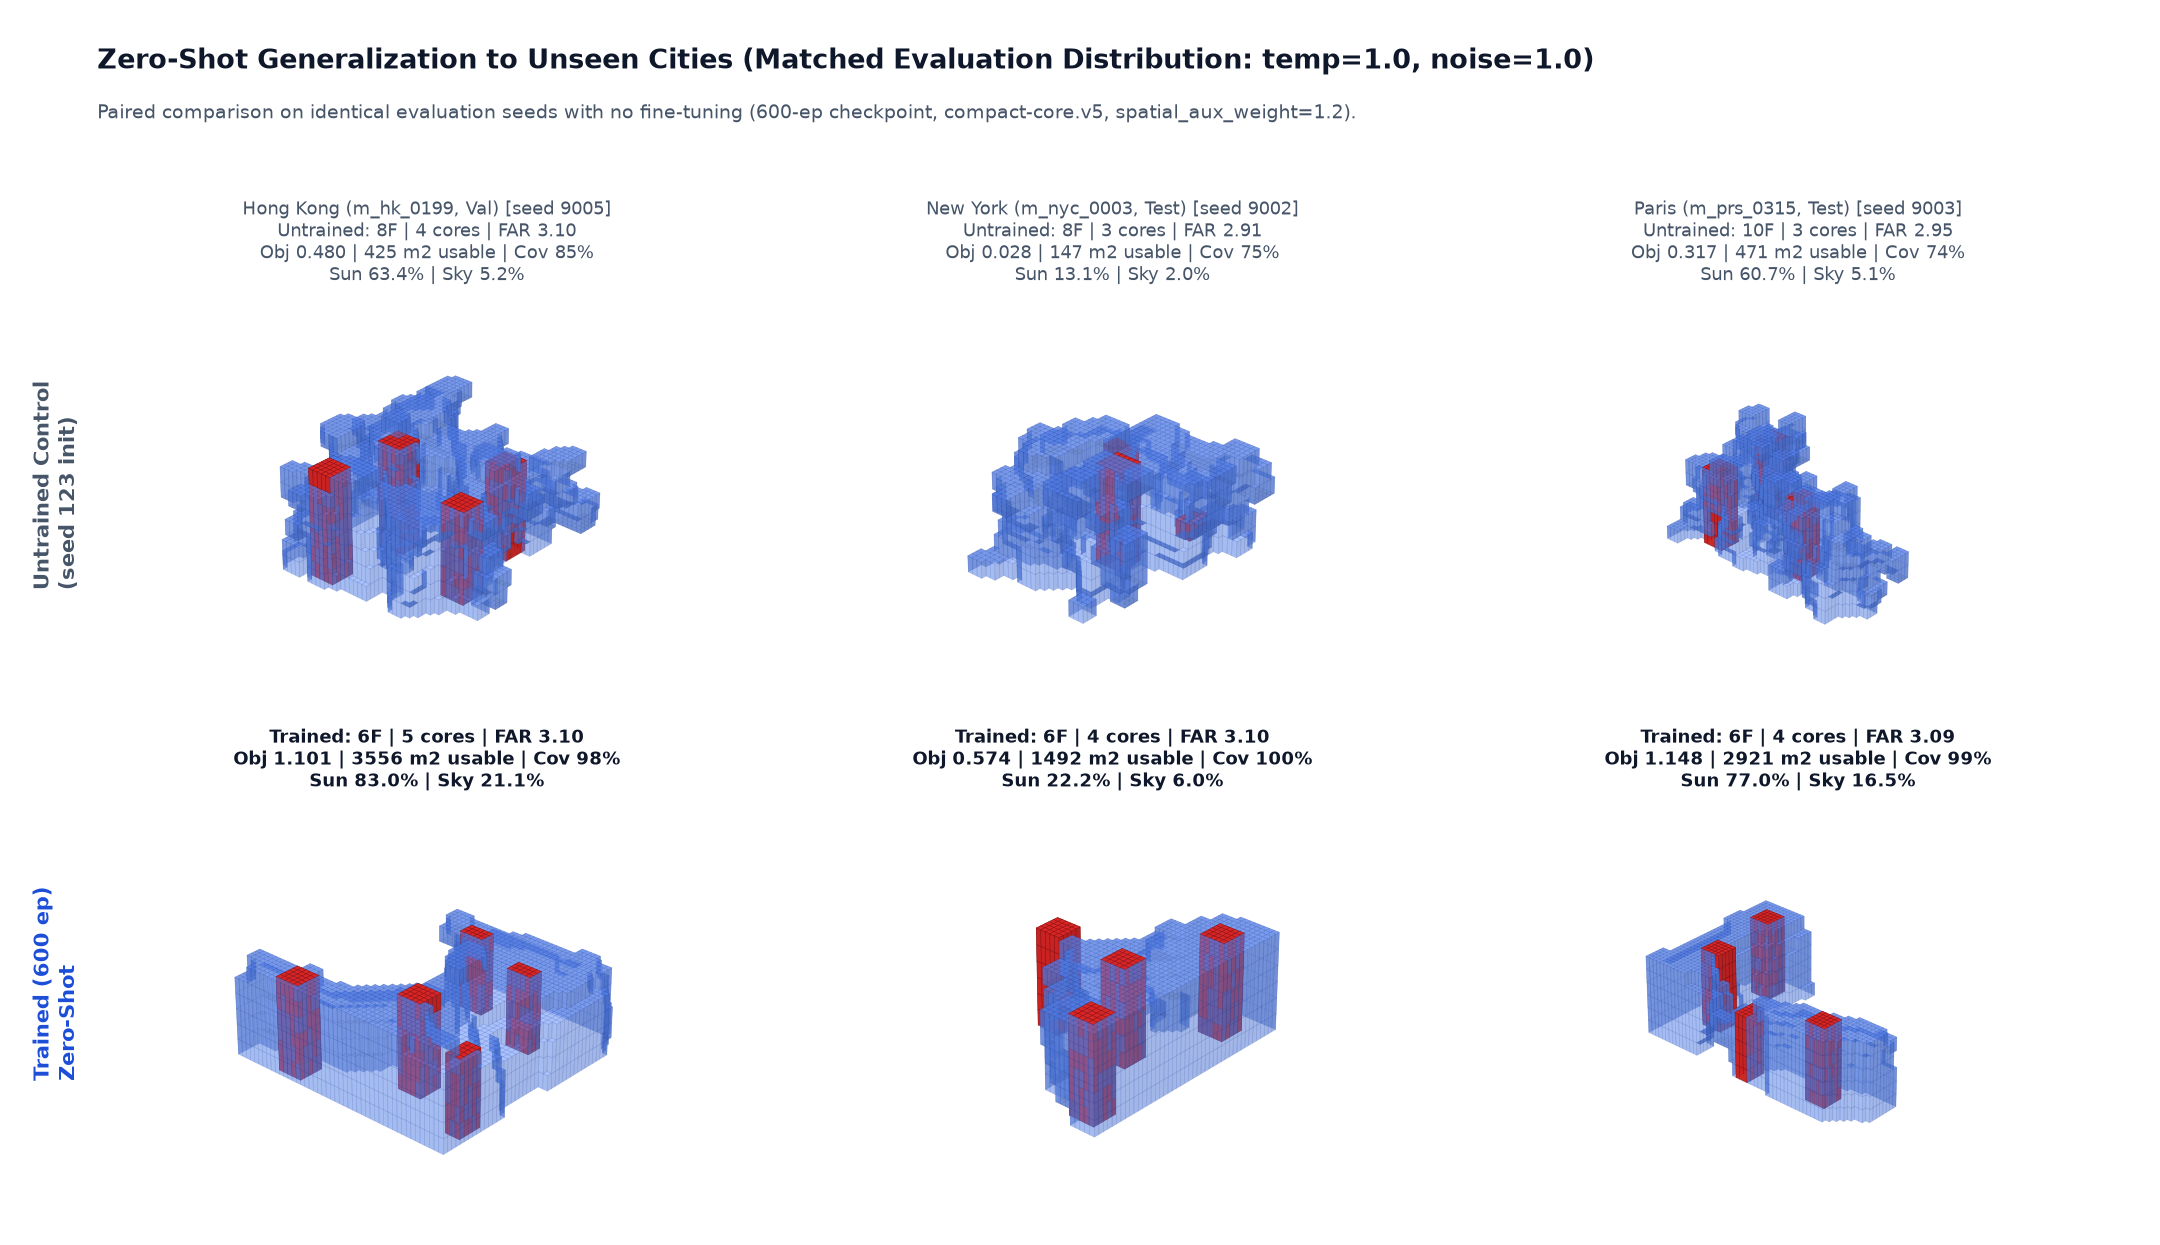
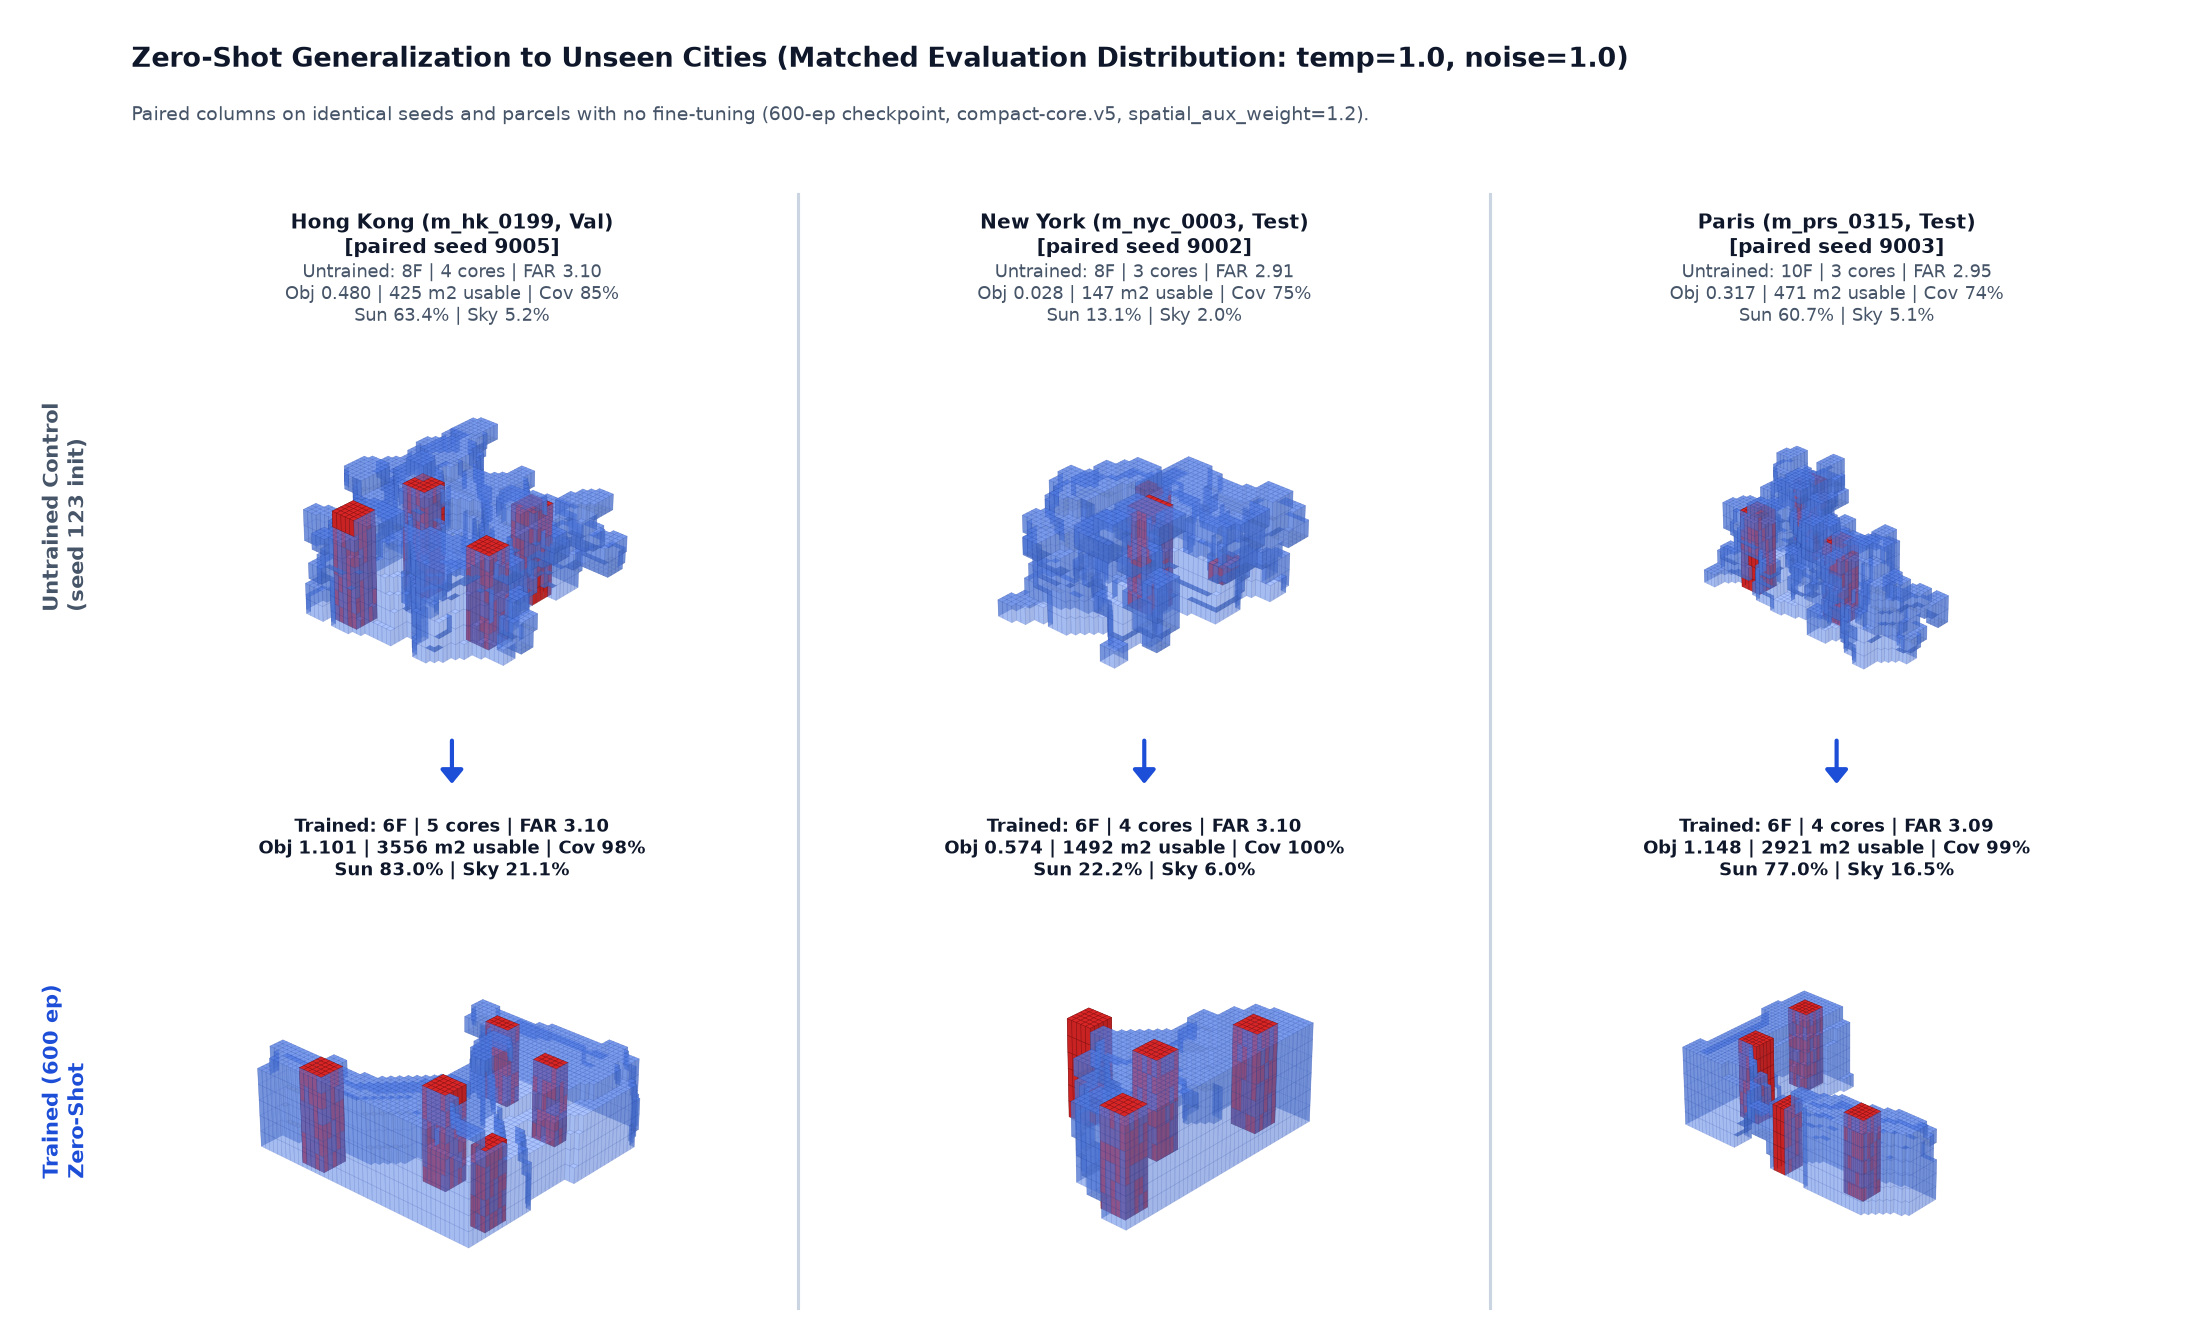
Select XS-3/M-3 showcase designs and refine held-out column dividers

diff --git a/tools/generate_readme_media.py b/tools/generate_readme_media.py
@@ -657,25 +657,21 @@ def generate_trained_rollout_assets(cfg: ExperimentConfig, dev: str, trained, to
 
 
 def generate_trained_multitier_showcase(cfg: ExperimentConfig, dev: str, trained, total_eps: int):
-    """Render best trained FAR-satisfied layouts across XS, S, M, L, XL training tiers."""
+    """Render curated trained FAR-satisfied layouts across XS, S, M, L, XL training tiers."""
     tiers = [
-        ('xs_sgp_0346', 'XS'),
-        ('s_sgp_0345', 'S'),
-        ('m_bcn_0093', 'M'),
-        ('l_bcn_0074', 'L'),
-        ('xl_tokyo_0185', 'XL'),
+        ('xs_tokyo_0133', 'XS', 9022),
+        ('s_sgp_0345', 'S', 9002),
+        ('m_tokyo_0135', 'M', 9007),
+        ('l_bcn_0074', 'L', 9008),
+        ('xl_tokyo_0185', 'XL', 9009),
     ]
     fig = plt.figure(figsize=(16.5, 5.1), dpi=150)
     fig.patch.set_facecolor('#ffffff')
     gs = gridspec.GridSpec(1, 5, figure=fig, left=0.015, right=0.985, top=0.71, bottom=0.04, wspace=0.03)
 
-    for idx, (site_id, tier) in enumerate(tiers):
+    for idx, (site_id, tier, eval_seed) in enumerate(tiers):
         env = _load_env(site_id, cfg, dev)
-        best = None
-        for s in range(9001, 9011):
-            res, _ = _run_eval_episode(trained, env, cfg, s, temp=1.0, noise=1.0, record_trace=False)
-            if best is None or (res['far_satisfied'], res['obj']) > (best['far_satisfied'], best['obj']):
-                best = res
+        best, _ = _run_eval_episode(trained, env, cfg, eval_seed, temp=1.0, noise=1.0, record_trace=False)
         occ = best['occ']
         cmask = best['core_mask']
         ax = fig.add_subplot(gs[0, idx], projection='3d')
@@ -691,7 +687,7 @@ def generate_trained_multitier_showcase(cfg: ExperimentConfig, dev: str, trained
             f'Sun {best["sun"]*100:.1f}% | Sky {best["diff"]*100:.1f}% | Cov {best["core_cov"]*100:.0f}%',
             fontsize=8.3, fontweight='bold', color='#0f172a', pad=3,
         )
-        print(f'  Tier {tier:2s} ({site_id}, {sched_lbl}): obj={best["obj"]:.3f} far={best["far"]:.2f} cov={best["core_cov"]*100:.1f}% seed={best["seed"]}')
+        print(f'  Tier {tier:2s} ({site_id}, {sched_lbl}): obj={best["obj"]:.3f} far={best["far"]:.2f} usable={best["usable_area"]:.0f} cov={best["core_cov"]*100:.1f}% seed={best["seed"]}')
 
     mode_tag = 'Tier-Adaptive Multi-Scale' if cfg.multiscale_schedule == 'tier_adaptive' else 'Flat 1x1x1'
     fig.text(
@@ -701,7 +697,7 @@ def generate_trained_multitier_showcase(cfg: ExperimentConfig, dev: str, trained
     )
     fig.text(
         0.02, 0.885,
-        'Best FAR-satisfied episode over eval seeds 9001-9010 (matched eval decoding temp=1.0, noise=1.0; target FAR 3.0 +/- 0.10, ceiling 20F).',
+        'Selected FAR-satisfied layouts under matched eval decoding (temp=1.0, noise=1.0; target FAR 3.0 +/- 0.10, ceiling 20F).',
         fontsize=9.1, color='#475569',
     )
     out = MEDIA_DIR / 'multitier-showcase.png'
@@ -717,39 +713,70 @@ def generate_heldout_generalization(cfg: ExperimentConfig, dev: str, untrained, 
         ('m_nyc_0003', 'New York (m_nyc_0003, Test)', summary['test']['perSite']['m_nyc_0003']['bestSeed']),
         ('m_prs_0315', 'Paris (m_prs_0315, Test)', summary['test']['perSite']['m_prs_0315']['bestSeed']),
     ]
-    fig = plt.figure(figsize=(14.4, 8.3), dpi=150)
+    fig = plt.figure(figsize=(14.6, 8.9), dpi=150)
     fig.patch.set_facecolor('#ffffff')
-    gs = gridspec.GridSpec(2, 3, figure=fig, left=0.045, right=0.985, top=0.77, bottom=0.03, hspace=0.22, wspace=0.04)
+    gs = gridspec.GridSpec(2, 3, figure=fig, left=0.060, right=0.985, top=0.755, bottom=0.025, hspace=0.32, wspace=0.08)
 
+    col_axes = []
     for col, (site_id, label, best_seed) in enumerate(sites):
         env = _load_env(site_id, cfg, dev)
         u_res, _ = _run_eval_episode(untrained, env, cfg, best_seed, temp=1.0, noise=1.0, record_trace=False)
         t_res, _ = _run_eval_episode(trained, env, cfg, best_seed, temp=1.0, noise=1.0, record_trace=False)
+        pair_axes = []
         for row, (res, row_tag) in enumerate(((u_res, 'Untrained'), (t_res, 'Trained'))):
             ax = fig.add_subplot(gs[row, col], projection='3d')
+            ax.patch.set_alpha(0.0)
             _render_voxel_panel(ax, res['occ'], res['core_mask'], mode='mass', elev=29.0, azim=-48.0, xray_mass=True)
             z_top = int(np.flatnonzero(res['occ'].any((1, 2)))[-1]) + 1 if res['occ'].any() else 0
-            title_top = f'{label} [seed {best_seed}]' if row == 0 else ''
-            prefix = f'{title_top}\n' if title_top else ''
             nc = res['core_count']
             ax.set_title(
-                f'{prefix}{row_tag}: {z_top}F | {nc} core{"s" if nc != 1 else ""} | FAR {res["far"]:.2f}\n'
+                f'{row_tag}: {z_top}F | {nc} core{"s" if nc != 1 else ""} | FAR {res["far"]:.2f}\n'
                 f'Obj {res["obj"]:.3f} | {res["usable_area"]:.0f} m2 usable | Cov {res["core_cov"]*100:.0f}%\n'
                 f'Sun {res["sun"]*100:.1f}% | Sky {res["diff"]*100:.1f}%',
-                fontsize=8.6, fontweight='bold' if row == 1 else 'normal',
+                fontsize=8.5, fontweight='bold' if row == 1 else 'normal',
                 color='#0f172a' if row == 1 else '#475569', pad=3,
             )
+            pair_axes.append(ax)
+        col_axes.append((label, best_seed, u_res, t_res, pair_axes[0], pair_axes[1]))
 
-    fig.text(0.014, 0.61, 'Untrained Control\n(seed 123 init)', fontsize=10.2, fontweight='bold', color='#475569', rotation=90, va='center')
-    fig.text(0.014, 0.21, f'Trained ({total_eps} ep)\nZero-Shot', fontsize=10.2, fontweight='bold', color='#1d4ed8', rotation=90, va='center')
+    fg_overlay = fig.add_axes([0.0, 0.0, 1.0, 1.0], frameon=False, zorder=10)
+    fg_overlay.patch.set_alpha(0.0)
+    fg_overlay.set_xlim(0.0, 1.0)
+    fg_overlay.set_ylim(0.0, 1.0)
+    fg_overlay.axis('off')
+
+    mid_xs = []
+    for label, best_seed, _u_res, _t_res, ax_top, ax_bot in col_axes:
+        pt = ax_top.get_position()
+        pb = ax_bot.get_position()
+        cx = 0.5 * (pt.x0 + pt.x1)
+        mid_xs.append((pt.x0, pt.x1, cx))
+        fg_overlay.text(
+            cx, 0.842,
+            f'{label}\n[paired seed {best_seed}]',
+            ha='center', va='top', fontsize=9.8, fontweight='bold', color='#0f172a',
+        )
+        arrow_y0 = pt.y0 + 0.008
+        arrow_y1 = pb.y1 + 0.070
+        fg_overlay.annotate(
+            '', xy=(cx, arrow_y1), xytext=(cx, arrow_y0),
+            arrowprops=dict(arrowstyle='-|>,head_width=0.45,head_length=0.55', color='#1d4ed8', lw=2.0),
+        )
+
+    for i in range(len(mid_xs) - 1):
+        vx = 0.5 * (mid_xs[i][1] + mid_xs[i + 1][0])
+        fg_overlay.plot([vx, vx], [0.020, 0.855], color='#cbd5e1', linestyle='-', linewidth=1.5)
+
+    fig.text(0.018, 0.62, 'Untrained Control\n(seed 123 init)', fontsize=10.2, fontweight='bold', color='#475569', rotation=90, va='center')
+    fig.text(0.018, 0.19, f'Trained ({total_eps} ep)\nZero-Shot', fontsize=10.2, fontweight='bold', color='#1d4ed8', rotation=90, va='center')
     fig.text(
-        0.045, 0.945,
+        0.060, 0.950,
         'Zero-Shot Generalization to Unseen Cities (Matched Evaluation Distribution: temp=1.0, noise=1.0)',
         fontsize=13.0, fontweight='bold', color='#0f172a',
     )
     fig.text(
-        0.045, 0.905,
-        f'Paired comparison on identical evaluation seeds with no fine-tuning ({total_eps}-ep checkpoint, compact-core.v5, spatial_aux_weight=1.2).',
+        0.060, 0.910,
+        f'Paired columns on identical seeds and parcels with no fine-tuning ({total_eps}-ep checkpoint, compact-core.v5, spatial_aux_weight=1.2).',
         fontsize=9.2, color='#475569',
     )
     out = MEDIA_DIR / 'heldout-generalization.png'

diff --git a/README.md b/README.md
@@ -28,7 +28,7 @@ Urban building massing provides the concrete constraint structure, proxy physics
 
 ![600-episode tier-adaptive trained layouts with compact-core.v5 shafts across XS, S, M, L, and XL training sites](docs/media/multitier-showcase.png)
 
-*Best FAR-satisfied evaluation rollouts per training plot-size tier from the **600-episode tier-adaptive shared policy** (`XS/S/M`: direct `1×1×1`; `L`: `2×2×1 → 1×1×1`; `XL`: `4×4×1 → 2×2×1 → 1×1×1`; `target_far=3.0 ± 0.10`, 20F ceiling, `compact-core.v5`, eval seeds `9001–9010`, matched decoding `temp=1.0, noise=1.0`), spanning `xs_sgp_0346` (`1.105` obj, `97%` core coverage), `l_bcn_0074` (`1.025` obj, `4,803 m²` usable, `100%` coverage), and `xl_tokyo_0185` (`0.738` obj, `10` cores, `96%` coverage).*
+*Selected FAR-satisfied evaluation rollouts per training plot-size tier from the **600-episode tier-adaptive shared policy** (`XS/S/M`: direct `1×1×1`; `L`: `2×2×1 → 1×1×1`; `XL`: `4×4×1 → 2×2×1 → 1×1×1`; `target_far=3.0 ± 0.10`, 20F ceiling, `compact-core.v5`, matched decoding `temp=1.0, noise=1.0`), spanning `xs_tokyo_0133` (`6F`, `0.497` obj, `100%` core coverage), `m_tokyo_0135` (`7F`, `1.082` obj, `2,259 m²` usable, `96%` coverage), `l_bcn_0074` (`1.025` obj, `4,803 m²` usable, `100%` coverage), and `xl_tokyo_0185` (`0.738` obj, `10` cores, `96%` coverage).*
 
 ![Paired zero-shot comparison between untrained control and 600-episode tier-adaptive trained policy across unseen Hong Kong, New York, and Paris plots](docs/media/heldout-generalization.png)
 

diff --git a/README_ARCHITECTURE.md b/README_ARCHITECTURE.md
@@ -31,7 +31,7 @@ Real plots span nearly `40×` in footprint area (`155 m²` Tokyo infill to `5,73
 
 ![Trained architectural massings across XS, S, M, L, and XL parcel scales with compact-core.v5 vertical cores](docs/media/multitier-showcase.png)
 
-*Best FAR-compliant designs across parcel scales from the **600-episode shared policy** (`target FAR = 3.0 ± 0.10`, `20F` envelope ceiling): ranging from compact `7F` single-core infill (`xs_sgp_0346`, `97%` coverage) and chamfered wedges (`s_sgp_0345`), to dual courtyard wings (`m_bcn_0093`, `2,327 m²` usable), Eixample perimeter courtyards (`l_bcn_0074`, `4,803 m²` usable, `6` cores, `100%` coverage), and multi-core `XL` urban bars (`xl_tokyo_0185`, `10` cores, `96%` coverage).*
+*Selected FAR-compliant designs across parcel scales from the **600-episode shared policy** (`target FAR = 3.0 ± 0.10`, `20F` envelope ceiling): ranging from compact `6F` infill (`xs_tokyo_0133`, `100%` core coverage) and chamfered wedges (`s_sgp_0345`), to stepped twin-core bars (`m_tokyo_0135`, `7F`, `2,259 m²` usable, `96%` coverage), Eixample perimeter courtyards (`l_bcn_0074`, `4,803 m²` usable, `6` cores, `100%` coverage), and multi-core `XL` urban bars (`xl_tokyo_0185`, `10` cores, `96%` coverage).*
 
 ---
 
